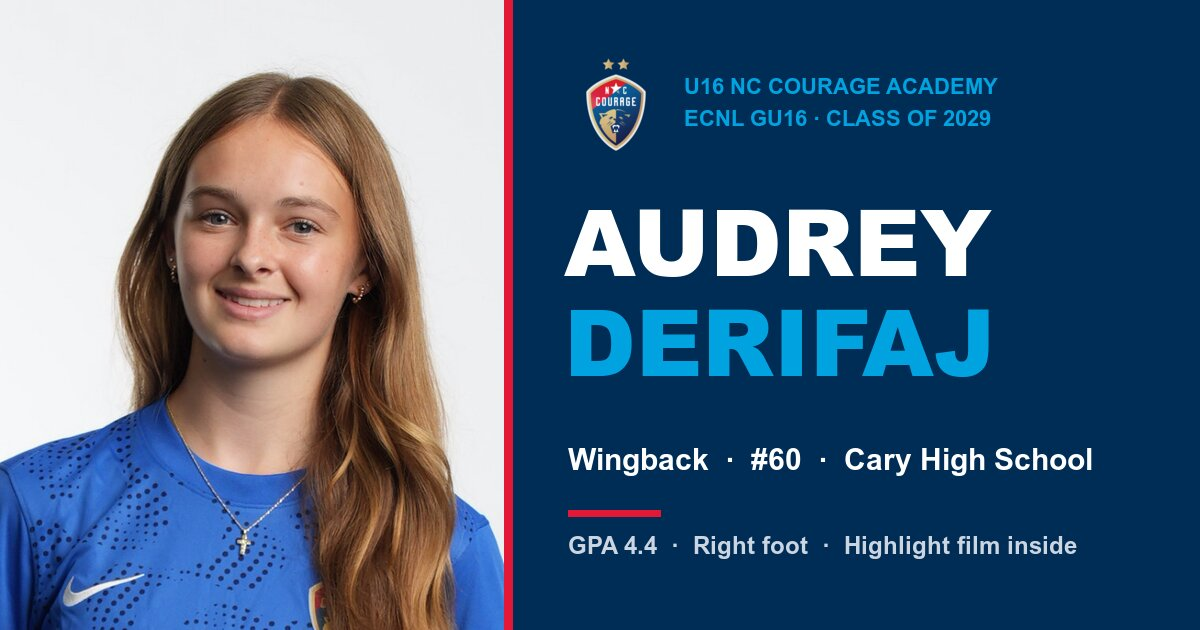
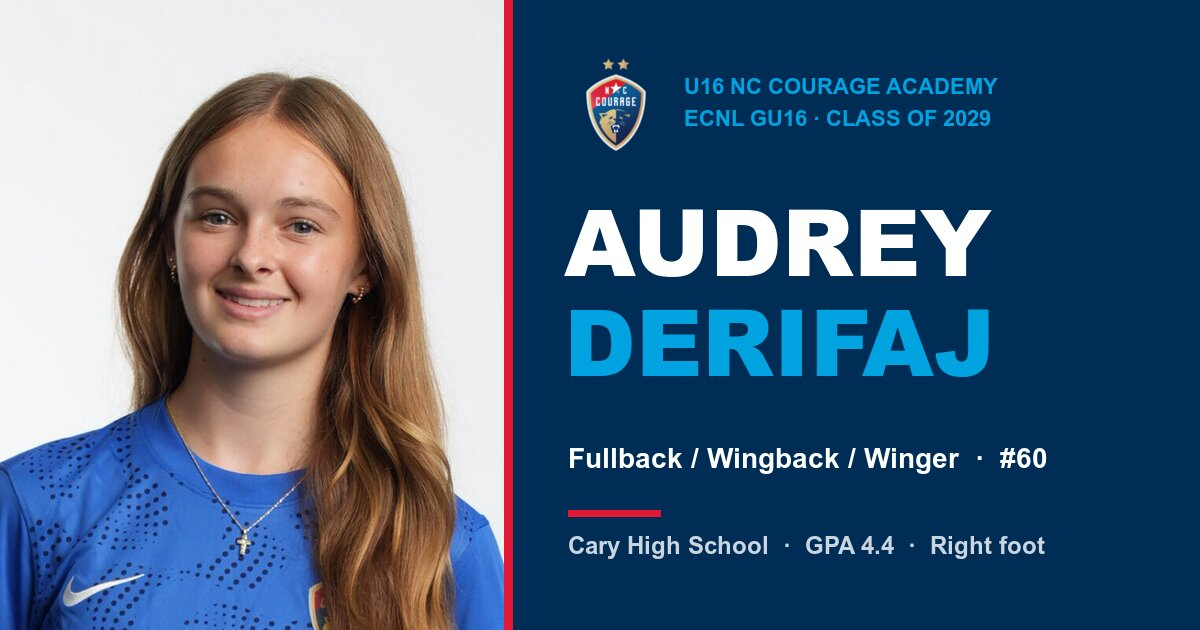
Update position, contact phone and parents line
- Position: Fullback / Wingback / Winger (page, meta and OG image)
- Add Phone below Email; Parents shows names only

Changed region(s): [[0.4625, 0.6937, 0.925, 0.754], [0.4625, 0.8444, 0.8942, 0.9048]]

diff --git a/index.html b/index.html
@@ -4,7 +4,7 @@
     <meta charset="UTF-8" />
     <meta name="viewport" content="width=device-width, initial-scale=1.0" />
     <title>Audrey Derifaj | U16 NC Courage Academy (2029)</title>
-    <meta name="description" content="Audrey Derifaj — #60 Wingback, U16 NC Courage Academy (ECNL GU16), Class of 2029, Cary High School. Highlight film, academics and contact info." />
+    <meta name="description" content="Audrey Derifaj — #60 Fullback/Wingback/Winger, U16 NC Courage Academy (ECNL GU16), Class of 2029, Cary High School. Highlight film, academics and contact info." />
     <link rel="canonical" href="https://audreyderifaj.netlify.app/" />
     <meta name="theme-color" content="#002D56" />
 
@@ -15,16 +15,16 @@
 
     <meta property="og:type" content="profile" />
     <meta property="og:site_name" content="Audrey Derifaj" />
-    <meta property="og:title" content="Audrey Derifaj | #60 Wingback, NC Courage Academy (2029)" />
-    <meta property="og:description" content="Audrey Derifaj — #60 Wingback, U16 NC Courage Academy (ECNL GU16), Class of 2029, Cary High School. Highlight film, academics and contact info." />
+    <meta property="og:title" content="Audrey Derifaj | #60 Fullback/Wingback/Winger, NC Courage Academy (2029)" />
+    <meta property="og:description" content="Audrey Derifaj — #60 Fullback/Wingback/Winger, U16 NC Courage Academy (ECNL GU16), Class of 2029, Cary High School. Highlight film, academics and contact info." />
     <meta property="og:url" content="https://audreyderifaj.netlify.app/" />
     <meta property="og:image" content="https://audreyderifaj.netlify.app/assets/images/og-audrey-derifaj.jpg" />
     <meta property="og:image:width" content="1200" />
     <meta property="og:image:height" content="630" />
-    <meta property="og:image:alt" content="Audrey Derifaj, #60 Wingback, U16 NC Courage Academy, Class of 2029" />
+    <meta property="og:image:alt" content="Audrey Derifaj, #60 Fullback/Wingback/Winger, U16 NC Courage Academy, Class of 2029" />
     <meta name="twitter:card" content="summary_large_image" />
-    <meta name="twitter:title" content="Audrey Derifaj | #60 Wingback, NC Courage Academy (2029)" />
-    <meta name="twitter:description" content="Audrey Derifaj — #60 Wingback, U16 NC Courage Academy (ECNL GU16), Class of 2029, Cary High School. Highlight film, academics and contact info." />
+    <meta name="twitter:title" content="Audrey Derifaj | #60 Fullback/Wingback/Winger, NC Courage Academy (2029)" />
+    <meta name="twitter:description" content="Audrey Derifaj — #60 Fullback/Wingback/Winger, U16 NC Courage Academy (ECNL GU16), Class of 2029, Cary High School. Highlight film, academics and contact info." />
     <meta name="twitter:image" content="https://audreyderifaj.netlify.app/assets/images/og-audrey-derifaj.jpg" />
 
     <link rel="preconnect" href="https://fonts.googleapis.com" />
@@ -125,7 +125,7 @@
               <div class="mt-8 bg-courage-navy text-white rounded-2xl p-6 flex items-center justify-between shadow-xl">
                 <div class="flex-1 pr-4">
                   <span class="block text-[10px] uppercase tracking-[0.3em] text-courage-blue font-black mb-1">Position</span>
-                  <p class="font-black italic uppercase tracking-tighter leading-tight text-xl">Wingback</p>
+                  <p class="font-black italic uppercase tracking-tighter leading-tight text-xl">Fullback / Wingback / Winger</p>
                 </div>
                 <div class="text-right border-l border-slate-700 pl-6 shrink-0">
                   <span class="block text-[10px] uppercase tracking-[0.3em] text-courage-blue font-black mb-1">Jersey</span>
@@ -143,7 +143,8 @@
               </div>
               <div class="mt-6 p-6 bg-slate-50 rounded-2xl border border-slate-200 text-sm text-slate-600 space-y-2">
                 <p><span class="font-bold text-slate-900">Email:</span> <a href="mailto:afderifaj@gmail.com" class="hover:text-courage-red">afderifaj@gmail.com</a></p>
-                <p><span class="font-bold text-slate-900">Parents:</span> Jason &amp; Caroline <a href="tel:+19194525095" class="whitespace-nowrap hover:text-courage-red">(919) 452-5095</a></p>
+                <p><span class="font-bold text-slate-900">Phone:</span> <a href="tel:+19198022647" class="whitespace-nowrap hover:text-courage-red">919.802.2647</a></p>
+                <p><span class="font-bold text-slate-900">Parents:</span> Jason &amp; Caroline</p>
               </div>
             </div>
           </div>
